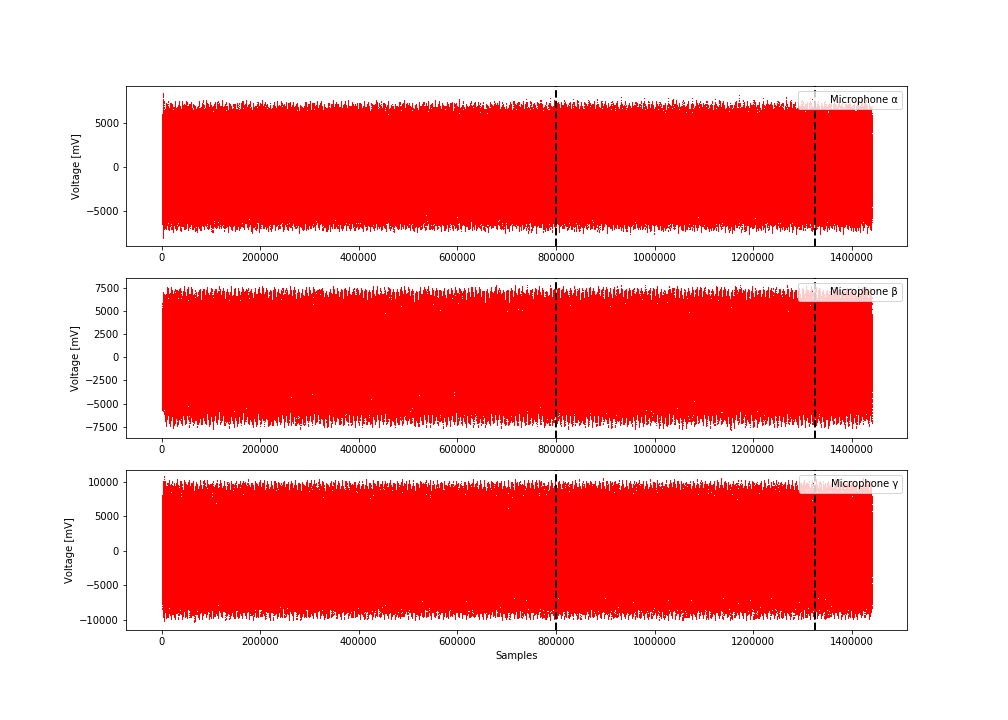
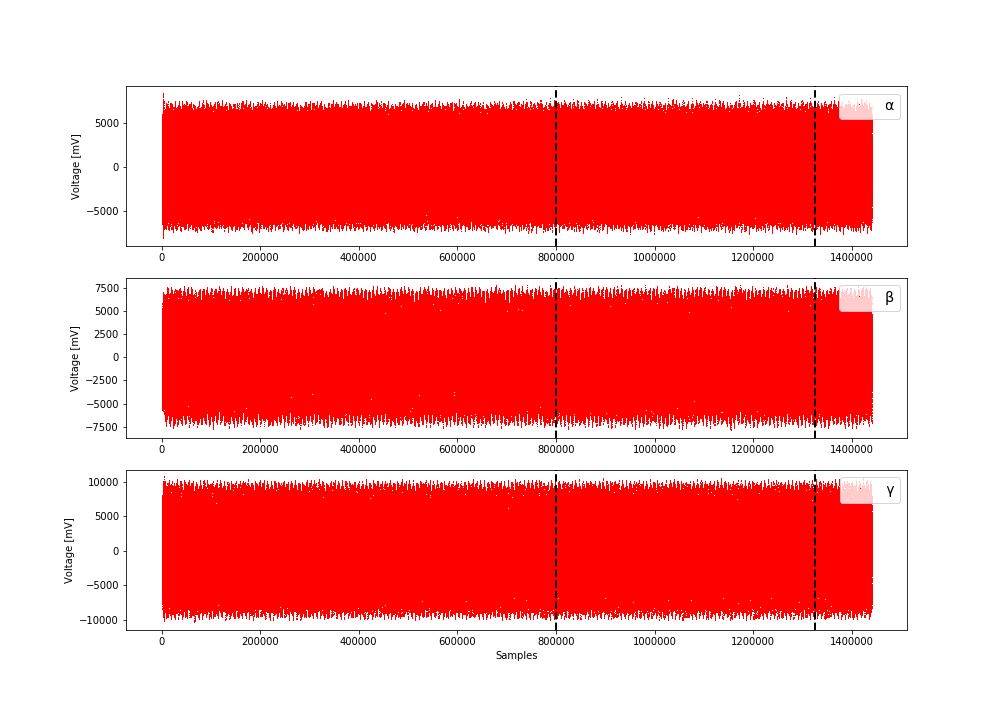
asd

Changed region(s): [[0.7996, 0.6417, 0.8919, 0.7028], [0.7996, 0.1222, 0.8919, 0.1833], [0.7688, 0.3972, 0.8919, 0.4583]]

diff --git a/pywavelets_implementation.py b/pywavelets_implementation.py
@@ -170,22 +170,46 @@ sample_delay_2_3 = cross_corr(synthesis2[300000:400000]/scipy.std(synthesis2), s
 
 
 # =============================================================================
-# Plot of Data
+# Plot of Reconstructed Signals
+# =============================================================================
+#plt.figure(figsize=(14, 10))
+#plt.subplot(311)
+#plt.plot(synthesis1/scipy.std(synthesis1), 'k,', label = "$\~\mathbf{x}_{\u03B1}$")
+#plt.legend(loc="upper right", fontsize = 'x-large')
+#
+#
+#plt.subplot(312)
+#plt.plot(synthesis2/scipy.std(synthesis2), 'k,', label = "$\~\mathbf{x}_{\u03B2}$")
+#plt.legend(loc='upper right', fontsize = 'x-large')
+#
+#
+#plt.subplot(313)
+#plt.plot(synthesis3/scipy.std(synthesis3), 'k,', label = "$\~\mathbf{x}_{\u03B3}$")
+#plt.legend(loc="upper right", fontsize = 'x-large')
+#plt.xlabel("Samples")
+#
+#
+#plt.savefig('reconstruction_experiment_7.png')
+#plt.show()
+
+
+# =============================================================================
+# Plot of Cross-correlations
 # =============================================================================
 plt.figure(figsize=(14, 10))
 plt.subplot(311)
-plt.plot(synthesis1/scipy.std(synthesis1), 'k,', label = "$\~\mathbf{x}_{\u03B1}$")
-plt.legend(loc="upper right", fontsize = 'xx-large')
+plt.plot(sample_delay_1_2, 'g-', label = "$\u03B1\star\u03B2$")
+plt.legend(loc="upper right", fontsize = 'x-large')
 
 
 plt.subplot(312)
-plt.plot(synthesis2/scipy.std(synthesis2), 'k,', label = "$\~\mathbf{x}_{\u03B2}$")
-plt.legend(loc='upper right', fontsize = 'xx-large')
+plt.plot(sample_delay_1_3, 'g-', label = "$$\u03B1\star\u03B3$")
+plt.legend(loc='upper right', fontsize = 'x-large')
 
 
 plt.subplot(313)
-plt.plot(synthesis3/scipy.std(synthesis3), 'k,', label = "$\~\mathbf{x}_{\u03B3}$")
-plt.legend(loc="upper right", fontsize = 'xx-large')
+plt.plot(sample_delay_2_3, 'g-', label = "$$\u03B2\star\u03B3$")
+plt.legend(loc="upper right", fontsize = 'x-large')
 plt.xlabel("Samples")
 
 

diff --git a/DWT.py b/DWT.py
@@ -368,22 +368,22 @@ x_fault_norm = [hamming(x_fault_norm[i]) for i in range(len(x_fault_norm))]
 # =============================================================================
 plt.figure(figsize=(14, 10))
 plt.subplot(311)
-plt.plot(data1, 'r,', label = "Microphone \u03B1")
-plt.legend(loc='upper right', fontsize = 'xx-large')
+plt.plot(data1, 'r,', label = "\u03B1")
+plt.legend(loc='upper right', fontsize = 'x-large')
 plt.ylabel('Voltage [mV]')
 plt.axvline(x=800001, linewidth = 2, color = 'k', linestyle = "--")
 plt.axvline(x=1324289, linewidth = 2, color = 'k', linestyle = "--")
 
 plt.subplot(312)
-plt.plot(data2, 'r,', label = "Microphone \u03B2")
-plt.legend(loc='upper right', fontsize = 'xx-large')
+plt.plot(data2, 'r,', label = "\u03B2")
+plt.legend(loc='upper right', fontsize = 'x-large')
 plt.ylabel('Voltage [mV]')
 plt.axvline(x=800001, linewidth = 2, color = 'k', linestyle = "--")
 plt.axvline(x=1324289, linewidth = 2, color = 'k', linestyle = "--")
 
 plt.subplot(313)
-plt.plot(data3, 'r,', label = "Microphone \u03B3")
-plt.legend(loc='upper right', fontsize = 'xx-large')
+plt.plot(data3, 'r,', label = "\u03B3")
+plt.legend(loc='upper right', fontsize = 'x-large')
 plt.xlabel("Samples")
 plt.ylabel('Voltage [mV]')
 plt.axvline(x=800001, linewidth = 2, color = 'k', linestyle = "--")
